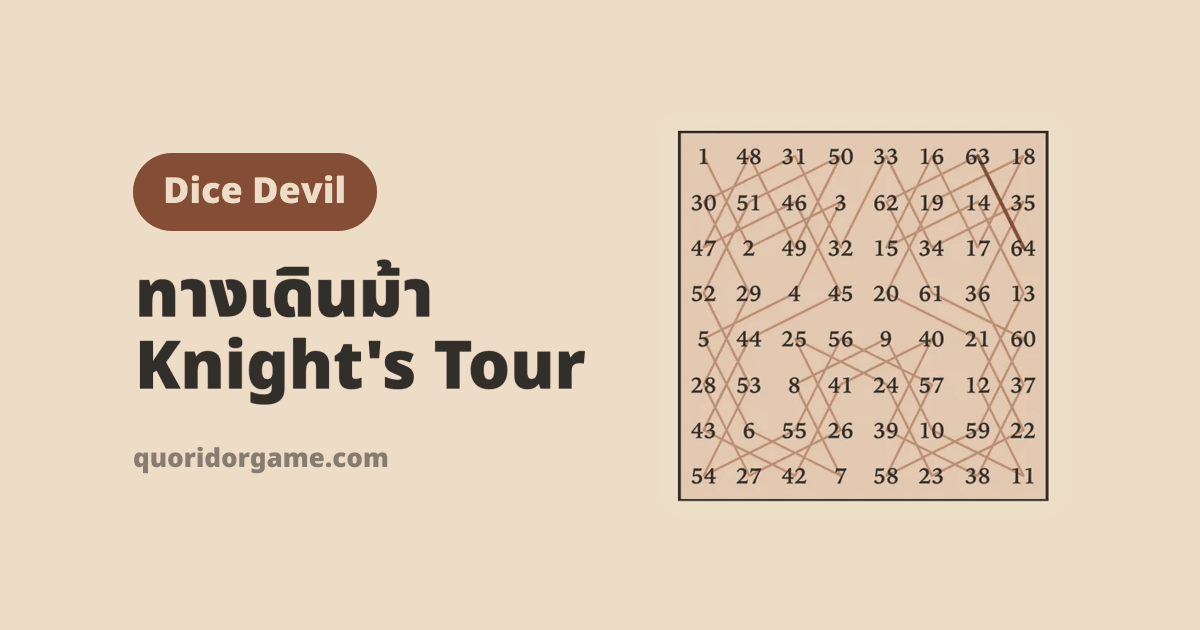
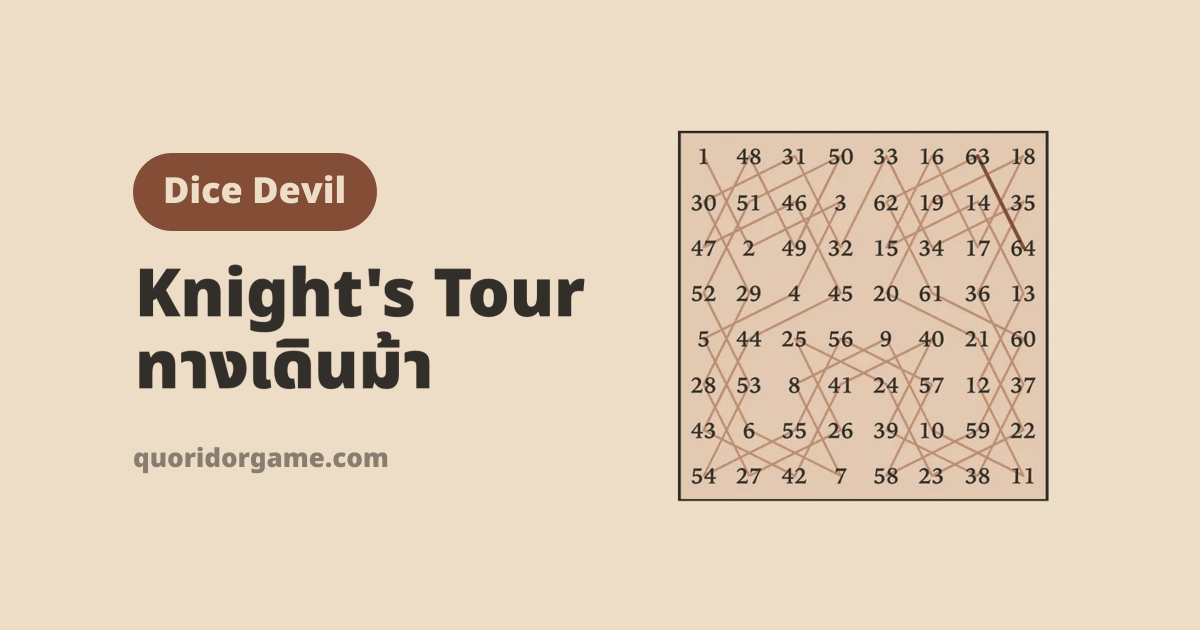
feat(knights-tour): 上線準備 —— GA 事件、泰文改成英文主標＋泰文副名
- GA：mode_select（show／practice）、game_start、game_end、game_restart、tutorial_close，帶 game=knights-tour、players=1；
  分享圖的 share 由共用的 useShareCard 送。analytics 的 mode 多 show／practice、players 多 1、winner 改選填
- 泰文標題 Knight's Tour、副名 ทางเดินม้า（Zach 11/1 選 A，跟尼泊爾虎棋泰文頁一樣）；泰文字標拿掉、分享圖重畫

Claude-Session: https://claude.ai/code/session_014xmu4NJqhaE3mUfTMmWSRQ

Changed region(s): [[0.0925, 0.3921, 0.4933, 0.6635]]

diff --git a/app/utils/analytics.ts b/app/utils/analytics.ts
@@ -19,13 +19,16 @@ import type { OnlineFailReason, OnlineStep } from '@/types/online';
  * 清單見 CLAUDE.md〈數據分析〉。參數名稱不能用 GA 保留給流量來源的 source／medium／campaign／term／content：
  * GA4 會拿它們蓋掉這個工作階段的來源（mode_select 帶過 source=home，Google 搜尋進來的被記成「home」）。
  */
-export type GameModeParam = 'local' | 'solo' | 'online';
+/** local／solo／online 是對戰類；show（節目挑戰）、practice（練習）是騎士巡遊這種一個人解題的 */
+export type GameModeParam = 'local' | 'solo' | 'online' | 'show' | 'practice';
+/** 一個人解題的遊戲是 1 */
+type Players = 1 | 2 | 3;
 
 /**
  * 哪一款遊戲：網址的 slug（/wall-go/ → wall-go）。平台上線後同一個 GA 資源有好幾款，
  * 跟對局有關的事件都一定要帶（docs/platform-tracking.md）。新遊戲上線時加在這裡，漏帶就編譯不過。
  */
-export type GameSlug = 'wall-go' | 'bagh-chal';
+export type GameSlug = 'wall-go' | 'bagh-chal' | 'knights-tour';
 type G = { game: GameSlug };
 
 /** 平台首頁、季目錄頁點了哪裡的遊戲卡 */
@@ -33,14 +36,14 @@ export type SelectLocation = 'home_hero' | 'home_grid' | 'season' | 'related';
 
 type Events = {
   /** 首頁（或 /solo 頁）選了一個模式。是「想玩」，不是「開始玩」 */
-  mode_select: G & { mode: GameModeParam; players: 2 | 3; difficulty?: Difficulty; entry: 'home' | 'solo_page' };
+  mode_select: G & { mode: GameModeParam; players: Players; difficulty?: Difficulty; entry: 'home' | 'solo_page' };
   /** 連線房開好了（還沒有人加入） */
   room_created: G & { players: 2 | 3 };
   /**
    * 這一局真的開始了：本機／單人是擺下第一顆棋，連線是人到齊、開始擺棋。
    * 分母用這個，完成率＝game_end ÷ game_start。
    */
-  game_start: G & { mode: GameModeParam; players: 2 | 3; difficulty?: Difficulty };
+  game_start: G & { mode: GameModeParam; players: Players; difficulty?: Difficulty };
   /**
    * 這一局結束了。
    * result：單人與連線從「這台裝置上的玩家」的角度看（win／lose／tie）；
@@ -48,15 +51,16 @@ type Events = {
    * Wall Go 是 A／B／C（多人同勝用 / 接起來），尼泊爾虎棋是 tiger／goat／draw。
    */
   game_end: G & {
-    mode: GameModeParam; players: 2 | 3; difficulty?: Difficulty;
+    mode: GameModeParam; players: Players; difficulty?: Difficulty;
     result: 'win' | 'lose' | 'tie' | 'decided';
-    winner: string;
+    /** 一個人解題的遊戲沒有勝方，不帶 */
+    winner?: string;
     ended: 'natural' | 'resign';
     turns: number;
     duration_sec?: number;
   };
   /** 結束畫面按「再來一局」 */
-  game_restart: G & { mode: GameModeParam; players: 2 | 3; difficulty?: Difficulty };
+  game_restart: G & { mode: GameModeParam; players: Players; difficulty?: Difficulty };
   /** 連線對戰失敗 */
   /**
    * fail_step 不叫 step：step 已經是 tutorial_close 的「看到第幾步」，在 GA 註冊成指標，

diff --git a/app/components/knights-tour/ShowGame.tsx b/app/components/knights-tour/ShowGame.tsx
@@ -17,6 +17,10 @@ import LeaveModal from './LeaveModal';
 import TourBoard from './TourBoard';
 import { finaleMs } from './motion';
 import { saveBest, useBestTimes } from './records';
+import { track } from '@/utils/analytics';
+
+/** GA：節目挑戰是一整輪（三關），開始＝第一關下了第一步，結束＝三關全破或時間到 */
+const GA = { game: 'knights-tour', mode: 'show', players: 1 } as const;
 import { isClosed } from './shareCard';
 import { playJump, playKt } from './sounds';
 import { formatTime, shake, sizeLabel, squareName } from './ui';
@@ -80,6 +84,8 @@ export default function ShowGame({ onMenu, onPractice }: {
     if (kind === 'start' && !canStartFrom(n, sq) && armed !== sq) { setArmed(sq); setNote('badStart'); shake(el); playKt('wrong'); return; }
     const at = Date.now();
     const next = showTap(run, sq, at);
+    if (run.startedAt === null && next.startedAt !== null) track('game_start', GA);
+    if (next.status === 'won') track('game_end', { ...GA, result: 'win', ended: 'natural', turns: next.tour.path.length, duration_sec: Math.round(showElapsed(next, at) / 1000) });
     setArmed(null);
     setNote(null);
     setNow(at);
@@ -102,8 +108,13 @@ export default function ShowGame({ onMenu, onPractice }: {
   // 時間到：往下的那一聲（計時器每一跳都可能是那一刻，所以看狀態的變化，不在點擊裡）
   const lastStatus = useRef(status);
   useEffect(() => {
-    if (status === 'timeUp' && lastStatus.current !== 'timeUp') playKt('stuck');
+    if (status === 'timeUp' && lastStatus.current !== 'timeUp') {
+      playKt('stuck');
+      track('game_end', { ...GA, result: 'lose', ended: 'natural', turns: tour.path.length, duration_sec: Math.round(showElapsed(run, run.endedAt ?? Date.now()) / 1000) });
+    }
     lastStatus.current = status;
+    // 只在狀態翻轉時跑；run 是送出當下讀的
+    // eslint-disable-next-line react-hooks/exhaustive-deps
   }, [status]);
 
   const act = (f: (r: ShowRun, at: number) => ShowRun) => () => {
@@ -117,6 +128,7 @@ export default function ShowGame({ onMenu, onPractice }: {
   };
   const again = () => {
     window.clearTimeout(finaleTimer.current);
+    if (run.startedAt !== null) track('game_restart', GA);
     if (tour.path.length || run.level) playKt('clear');
     setRun(startShow());
     setNow(0);

diff --git a/app/components/knights-tour/PracticeGame.tsx b/app/components/knights-tour/PracticeGame.tsx
@@ -16,6 +16,10 @@ import LeaveModal from './LeaveModal';
 import TourBoard from './TourBoard';
 import { finaleMs } from './motion';
 import { practiceKey, saveBest, useBestTimes } from './records';
+import { track } from '@/utils/analytics';
+
+/** GA：練習是一盤，開始＝第一步，結束＝走完（卡住可以悔棋，不算結束） */
+const GA = { game: 'knights-tour', mode: 'practice', players: 1 } as const;
 import { isClosed } from './shareCard';
 import { playJump, playKt } from './sounds';
 import { formatTime, shake, sizeLabel, squareName } from './ui';
@@ -87,10 +91,11 @@ export default function PracticeGame({ n, onMenu, onSize }: { n: number; onMenu:
     setNow(at);
     playJump(n, sq, kind === 'start');
     const start = startedAt ?? at;
-    if (startedAt === null) setStartedAt(at);
+    if (startedAt === null) { setStartedAt(at); track('game_start', GA); }
     if (isComplete(next)) {
       setEndedAt(at);
       const ms = at - start;
+      track('game_end', { ...GA, result: 'win', ended: 'natural', turns: next.path.length, duration_sec: Math.round(ms / 1000) });
       const closed = isClosed(next);
       playKt('complete', 0.3);
       if (closed) playKt('closed', 0.95);
@@ -229,7 +234,7 @@ export default function PracticeGame({ n, onMenu, onSize }: { n: number; onMenu:
 
       {/* 結算就是分享圖：一張銅版圖版（shareCard.ts）。關掉就停在走完的棋盤上，換大小在棋盤下面 */}
       <ShareResultModal isOpen={!!result?.open} onClose={() => setResult((r) => (r ? { ...r, open: false } : r))}
-        title={t.doneTitle} card={share} onRestart={restart} restartLabel={t.again}
+        title={t.doneTitle} card={share} onRestart={() => { track('game_restart', GA); restart(); }} restartLabel={t.again}
         classes={KT_SHARE} frameClassName="rounded-[2px]"
         srText={[
           fill(t.doneBody, { size, time: formatTime(result?.ms ?? 0) }),

diff --git a/app/components/knights-tour/HowToPlay.tsx b/app/components/knights-tour/HowToPlay.tsx
@@ -1,5 +1,5 @@
 'use client';
-import { useState } from 'react';
+import { useEffect, useRef, useState } from 'react';
 import { GiRuleBook } from 'react-icons/gi';
 import Modal from '@/components/Modal';
 import { useMessages } from '@/i18n/LocaleProvider';
@@ -8,6 +8,7 @@ import { useStep, useSwipePager } from '@/hook/useSwipePager';
 import { TEXT, type KnightsText } from '@/games/knights-tour/text';
 import { FIGS, RuleFigure } from './RulesSteps';
 import { BAND_CHALK, MODAL_PANEL } from './styles';
+import { track } from '@/utils/analytics';
 
 /**
  * 對局中的說明彈窗（節目挑戰與練習模式共用）：跟規則頁同一份步驟（RulesSteps.tsx），一次一步。
@@ -29,6 +30,13 @@ export default function HowToPlay({ open, onClose }: { open: boolean; onClose: (
     if (open) goTo(0);
   }
   const last = i === FIGS.length - 1;
+  // 關掉時讀到第幾步（GA 的 tutorial_close，同 Wall Go 的遊玩方式）：按完成、按 ×、點遮罩都算
+  const seen = useRef(i);
+  useEffect(() => { seen.current = i; }, [i]);
+  useEffect(() => {
+    if (!open) return;
+    return () => track('tutorial_close', { game: 'knights-tour', step: seen.current + 1, steps: FIGS.length, finished: seen.current === FIGS.length - 1 });
+  }, [open]);
 
   return (
     <Modal isOpen={open} onClose={onClose} title={t.rules} kicker={t.title} icon={GiRuleBook}

diff --git a/app/games/knights-tour/text.ts b/app/games/knights-tour/text.ts
@@ -475,9 +475,10 @@ export const TEXT = {
     board: '棋盘',
   },
   th: {
-    title: 'ทางเดินม้า',
-    subtitle: "Knight's Tour",
-    metaTitle: "ทางเดินม้า (Knight's Tour) เล่นออนไลน์",
+    // 英文名＋泰文副名（2026-11-01 Zach 選 A，跟尼泊爾虎棋的泰文頁一樣）：泰國媒體講節目裡的遊戲都用英文名，平台卡片也是英文
+    title: "Knight's Tour",
+    subtitle: 'ทางเดินม้า',
+    metaTitle: "Knight's Tour ทางเดินม้า เล่นออนไลน์",
     metaDescription: "พาม้าหมากรุกเดินให้ครบทุกช่องบนกระดาน ช่องละครั้งเดียว ท้าทายตามกติกาของ The Devil's Plan: Death Room กระดาน 6×6 → 7×7 → 8×8 ภายใน 60 นาที หรือฝึกกับกระดาน 5×5 ถึง 10×10 ที่ย้อนตาและขอคำใบ้ได้ ไม่ต้องดาวน์โหลด ไม่ต้องสมัคร",
     tagline: 'พาม้าเดินให้ครบทุกช่อง ช่องละครั้งเดียว',
     showMode: 'ท้าทายแบบในรายการ',

diff --git a/app/components/knights-tour/KnightsTour.tsx b/app/components/knights-tour/KnightsTour.tsx
@@ -5,6 +5,7 @@ import KnightsTourMenu from './KnightsTourMenu';
 import { modeHash, parseMode } from './mode';
 import PracticeGame from './PracticeGame';
 import ShowGame from './ShowGame';
+import { track } from '@/utils/analytics';
 
 /**
  * /knights-tour：選模式與對局都在這一頁，模式放在 hash —— `#show`、`#practice-8`，沒有就是選單。
@@ -55,5 +56,7 @@ export default function KnightsTour({ locale }: { locale: Locale }) {
   if (mode.kind === 'practice') {
     return <PracticeGame key={mode.n} n={mode.n} onMenu={backToMenu} onSize={(n) => go(practice(n), true)} />;
   }
-  return <KnightsTourMenu locale={locale} onShow={() => enter(modeHash({ kind: 'show' }))} onPractice={(n) => enter(practice(n))} />;
+  return <KnightsTourMenu locale={locale}
+    onShow={() => { track('mode_select', { game: 'knights-tour', mode: 'show', players: 1, entry: 'home' }); enter(modeHash({ kind: 'show' })); }}
+    onPractice={(n) => { track('mode_select', { game: 'knights-tour', mode: 'practice', players: 1, entry: 'home' }); enter(practice(n)); }} />;
 }

diff --git a/app/games/knights-tour/nameLettering.ts b/app/games/knights-tour/nameLettering.ts
@@ -6,5 +6,4 @@ export const NAME_LETTERING: NameLettering = {
   'zh-Hans': { text: '骑士巡游', h: 0.967, gap: 0.04, lead: 0.133, fit: 4.13, pieces: [{ src: '/games/knights-tour/name/zh-Hans-0.svg', w: 4.12 }] },
   ja: { text: 'ナイトツアー', h: 0.864, gap: 0.04, lead: 0.236, fit: 6.11, pieces: [{ src: '/games/knights-tour/name/ja-0.svg', w: 6.1 }] },
   ko: { text: '기사의 여행', h: 1.002, gap: 0.335, lead: 0.098, fit: 2.988, pieces: [{ src: '/games/knights-tour/name/ko-0.svg', w: 2.978 }, { src: '/games/knights-tour/name/ko-1.svg', w: 1.972 }] },
-  th: { text: 'ทางเดินม้า', h: 0.916, gap: 0.04, lead: 0.184, fit: 4.77, pieces: [{ src: '/games/knights-tour/name/th-0.svg', w: 4.76 }] },
 };
